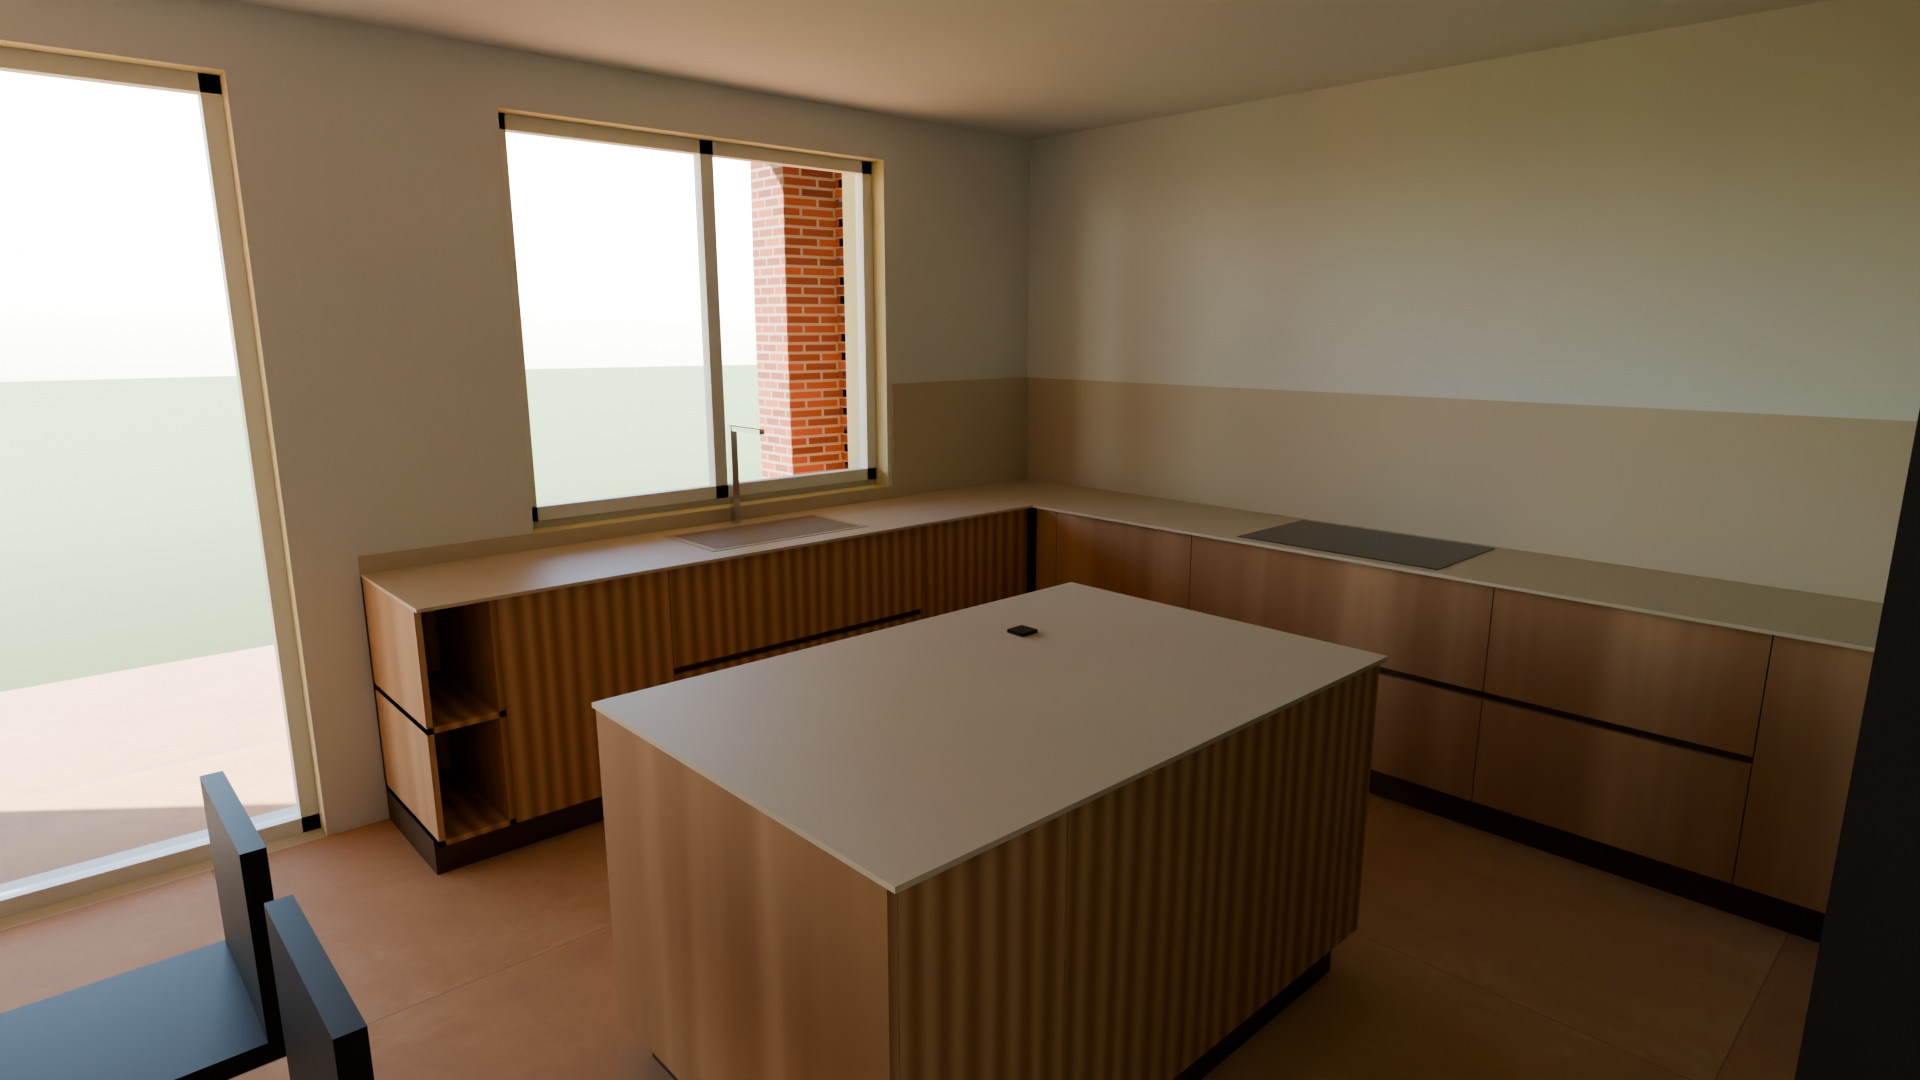
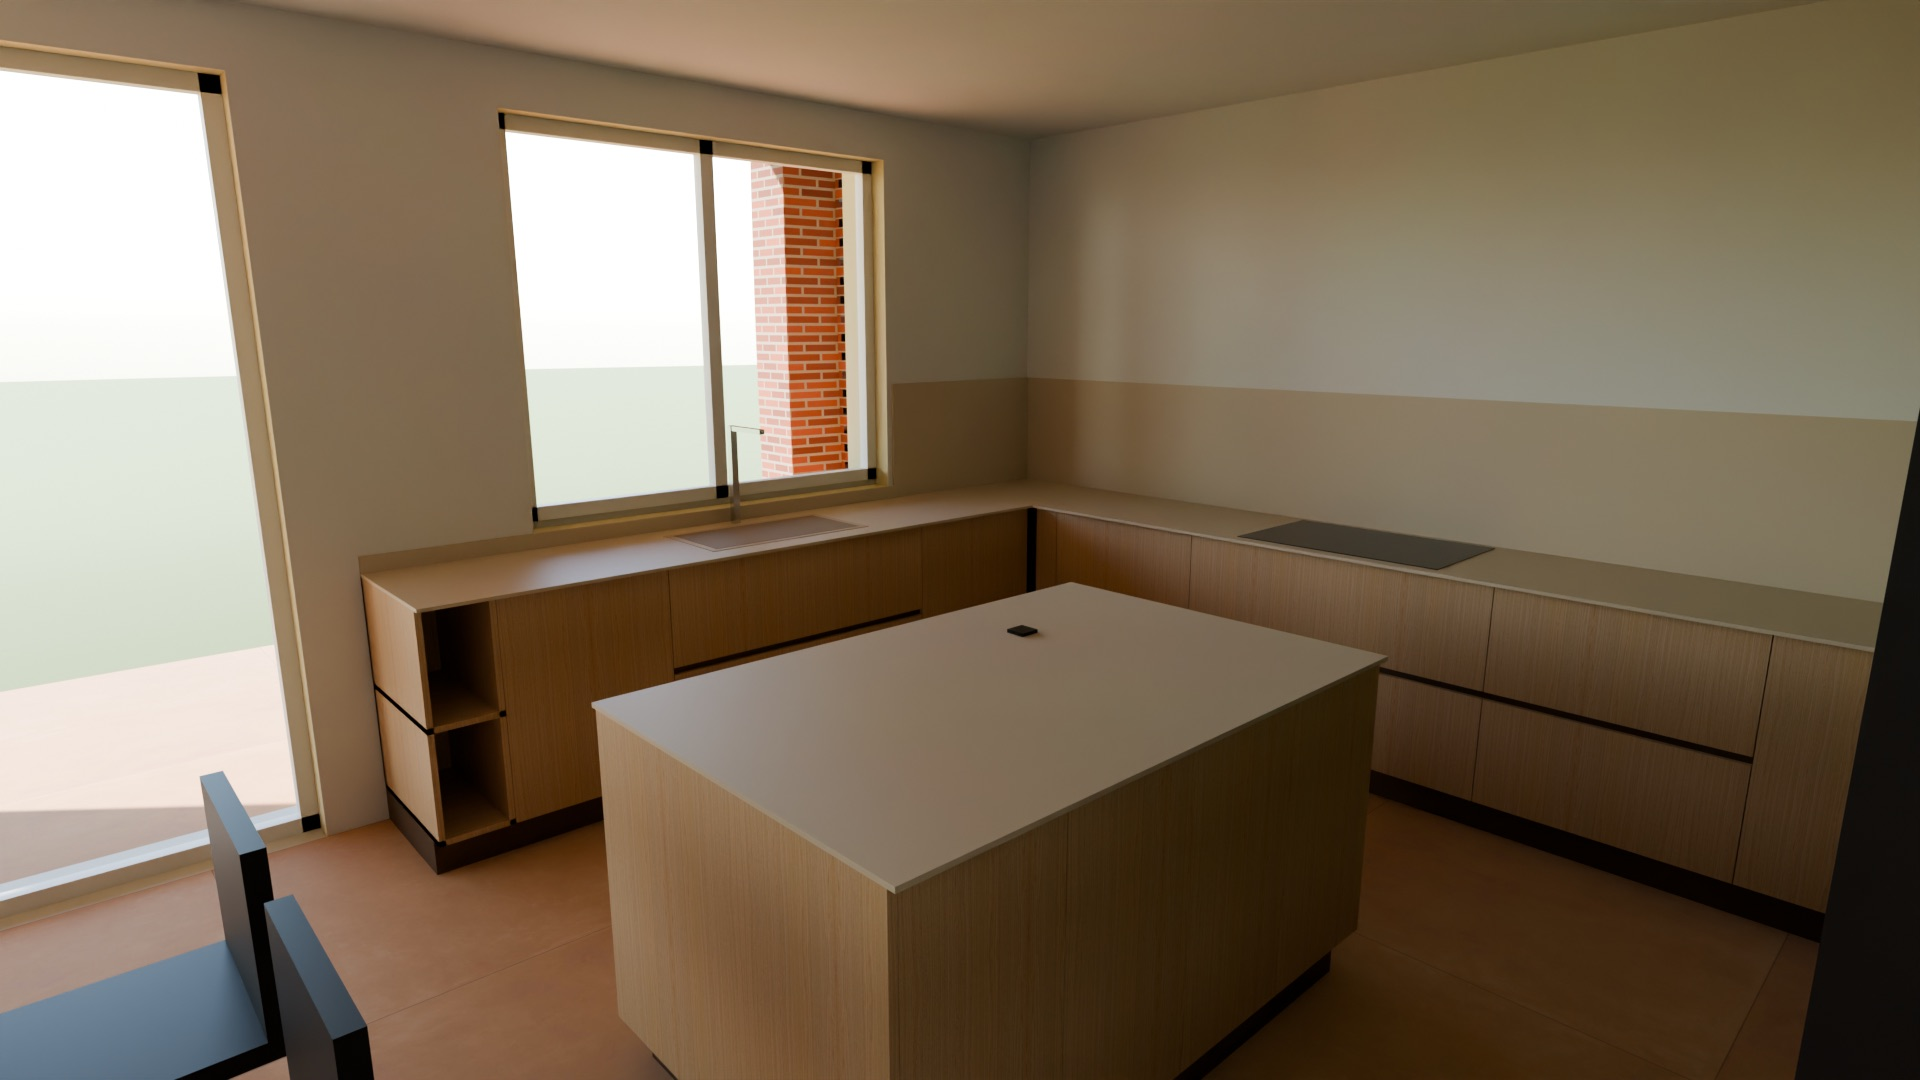
Cucina in rovere Ikebana, solo Cotto Milano creta e terracotta
- Ante della cucina con la foto del rovere Ikebana di Veneta Cucine
  (ritagliata, ripetuta a specchio, ~30 cm) nel viewer e in Blender
- Restano solo creta e terracotta: selettore del viewer, preset Blender,
  galleria e indice; rimosse le texture degli altri quattro colori
- Rifatti i render delle tre viste della cucina (2 colori × 2 scene)

Changed region(s): [[0.3125, 0.6722, 0.4688, 1.0], [0.5938, 0.4889, 0.8438, 0.6111], [0.875, 0.5806, 0.9375, 0.6417]]

diff --git a/src/viewer_3d.js b/src/viewer_3d.js
@@ -215,23 +215,14 @@ function tileTex(size, c1, c2, joint, seed, tilesPerTex) {
     }
   });
 }
-function grainTex(base, seed) {
-  // venatura continua per le ante in rovere (senza doghe): tassello 0,8 × 1,6 m, fibra verticale
-  const [r0, g0, b0] = base;
-  return canvasTex(512, 1024, [0.8, 1.6], (g, w, h) => {
-    const rnd = rand(seed);
-    g.fillStyle = `rgb(${r0},${g0},${b0})`; g.fillRect(0, 0, w, h);
-    for (let i = 0; i < 260; i++) {
-      const x = rnd() * w;
-      g.globalAlpha = 0.05 + rnd() * 0.08;
-      g.strokeStyle = rnd() > 0.45 ? '#5a3b22' : '#f4dcc0';
-      g.lineWidth = 0.6 + rnd() * 2.2;
-      g.beginPath(); g.moveTo(x, 0);
-      g.bezierCurveTo(x + (rnd() - 0.5) * 30, h * 0.33, x + (rnd() - 0.5) * 30, h * 0.66, x, h);
-      g.stroke();
-    }
-    g.globalAlpha = 1;
-  });
+// foto di un materiale del produttore, ripetuta a specchio (niente giunte) alla scala reale
+function photoTex(url, meters) {
+  const t = new THREE.TextureLoader().load(url);
+  t.wrapS = t.wrapT = THREE.MirroredRepeatWrapping;
+  t.repeat.set(1 / meters[0], 1 / meters[1]);
+  t.anisotropy = renderer.capabilities.getMaxAnisotropy();
+  t.colorSpace = THREE.SRGBColorSpace;
+  return t;
 }
 function brickTex(seed) {
   // mattone ~25 × 5,5 cm, fuga 1 cm: il tassello è 1,04 × 0,52 m (4 teste × 8 corsi)
@@ -341,7 +332,8 @@ const TEX = {
   plaster: noiseTex([1, 1], 18, 7),
   rovere: woodTex([206, 158, 104], 11),
   rovereFume: woodTex([128, 102, 80], 12),
-  anteRovere: grainTex([196, 150, 104], 17),
+  // rovere Ikebana della Sakura: campione Veneta Cucine ritagliato, circa 30 × 28 cm, fibra verticale
+  anteRovere: photoTex('./texture/cucina/rovere_ikebana.jpg', [0.30, 0.283]),
   cotto: tileTex(0.30, '#b4643e', '#9c5230', '#bdb4a6', 13, 4),
   gres: tileTex(0.60, '#a6a29b', '#9c9891', '#8f8b85', 14, 2),
   resina: noiseTex([2, 2], 26, 15),

diff --git a/src/viewer_3d.html b/src/viewer_3d.html
@@ -182,11 +182,7 @@
       <label class="row">Pavimento piano terra
         <select id="floorPT">
           <option value="terracotta">Cotto Milano Terracotta</option>
-          <option value="mattone">Cotto Milano Mattone</option>
           <option value="creta">Cotto Milano Creta</option>
-          <option value="sabbia">Cotto Milano Sabbia</option>
-          <option value="argilla">Cotto Milano Argilla</option>
-          <option value="talco">Cotto Milano Talco</option>
         </select>
       </label>
       <label class="row">Pavimento primo piano

diff --git a/index.html b/index.html
@@ -156,7 +156,7 @@
   </a>
   <a href="./src/render/render.html">
     <div class="variant-title">Render del Piano Terra</div>
-    <div class="variant-desc">Blender Cycles: Cotto Milano argilla, creta, terracotta e mattone, di giorno e di sera, con la cucina Sakura</div>
+    <div class="variant-desc">Blender Cycles: Cotto Milano creta e terracotta, di giorno e di sera, con la cucina Sakura</div>
   </a>
   <a href="./src/playground_inglesine.html">
     <div class="variant-title">Playground Inglesine</div>

diff --git a/src/render/render.html b/src/render/render.html
@@ -211,10 +211,8 @@
 </div>
 <script>
   const COLORI = {
-    argilla:    { nome: 'Argilla',    tinta: '#d3c5b6' },
     creta:      { nome: 'Creta',      tinta: '#dcc1a2' },
     terracotta: { nome: 'Terracotta', tinta: '#cfa27c' },
-    mattone:    { nome: 'Mattone',    tinta: '#c58f69' },
   };
   const SCENE = { giorno: 'Giorno · 16:00', sera: 'Sera · 20:30, luci accese' };
   const VISTE = {

diff --git a/src/blender/fienile_pt_render.py b/src/blender/fienile_pt_render.py
@@ -92,12 +92,13 @@ CAMERAS = {
 FOV_Y = 55            # apertura verticale della camera del viewer (gradi)
 
 # preset: cambia solo il colore del Cotto Milano (pavimento PT, portico, terrazzo)
-PRESETS = ("argilla", "creta", "terracotta", "mattone")
+PRESETS = ("creta", "terracotta")
 # giorno: sole all'ora scelta, luci spente; sera: luci interne accese (toggle "Luci interne" del viewer)
 SCENES = ("giorno", "sera")
 
 # Cotto Milano 120×120 ultramatt: stessi parametri di COTTO_MILANO nel viewer.
-TEX_DIR = os.path.join(os.path.dirname(os.path.abspath(__file__)), "..", "texture", "cottomilano")
+TEX_ROOT = os.path.join(os.path.dirname(os.path.abspath(__file__)), "..", "texture")
+TEX_DIR = os.path.join(TEX_ROOT, "cottomilano")
 COTTO = dict(facce=5, nx=8, nz=12, lato=1.2, seme=57, px=512)
 
 # ----------------------------------------------------------------------------
@@ -401,6 +402,17 @@ def m_cotto(colore, rough=0.85, suffix=""):
     nt.links.new(coords(nt), nz.inputs["Vector"]); bump(nt, nz.outputs["Fac"], p, 0.05, 0.002)
     return m
 
+def m_photo(name, rel, meters, rough=0.5):
+    """Foto di un materiale del produttore (src/texture/<rel>) sulle UV in metri, ripetuta a specchio."""
+    m, r = new_mat(name)
+    if not r: return m
+    nt, p = r
+    tx = node(nt, "ShaderNodeTexImage"); tx.extension = "MIRROR"
+    tx.image = bpy.data.images.load(os.path.join(TEX_ROOT, rel), check_existing=True)
+    nt.links.new(uv_coords(nt, (1 / meters[0], 1 / meters[1], 1)), tx.inputs["Vector"])
+    nt.links.new(tx.outputs["Color"], p.inputs["Base Color"]); p.inputs["Roughness"].default_value = rough
+    return m
+
 def m_emit(name, kelvin=3000, strength=18):
     m = bpy.data.materials.get(name)
     if m: return m
@@ -428,7 +440,7 @@ LIB = {
     "coppi":       lambda: m_simple("coppi", "#9f5638", 0.85),
     "tavolato":    lambda: m_wood("tavolato", "#80664f", "#5a4636", grain_dir="Y", rough=0.8),
     "prato":       lambda: m_simple("prato", "#66753f", 1.0),
-    "ante":        lambda: m_wood("ante_rovere", "#d0a47a", "#a8784e", planks=False, grain_dir="Z", rough=0.6),
+    "ante":        lambda: m_photo("ante_rovere", "cucina/rovere_ikebana.jpg", (0.30, 0.283), 0.6),  # rovere Ikebana
     "laccato":     lambda: m_simple("laccato_verde_avocado", "#8c8a62", 0.7),
     "travertino":  lambda: m_plaster("travertino", "#dccab0", rough=0.55, grain=0.01),
     "bronzo":      lambda: m_simple("bronzo", "#5f4b37", 0.45, metal=0.6),

diff --git a/CLAUDE.md b/CLAUDE.md
@@ -19,7 +19,7 @@ src/
 │   └── primo_piano.html                — Primo Piano (F2/F3=174cm)
 ├── viewer_3d.html / viewer_3d.js       — Vista 3D interattiva (three.js)
 ├── render/render.html                — Galleria render Blender (img/ da aggiorna_render.sh)
-├── texture/cottomilano/                — Cotto Milano 120×120 ultramatt: 6 colori × 5 facce (dal produttore, 512 px sRGB)
+├── texture/cottomilano/                — Cotto Milano 120×120 ultramatt: creta e terracotta × 5 facce (dal produttore, 512 px sRGB)
 ├── blender/
 │   └── fienile_pt_render.py            — Scena Blender allineata al viewer 3D + render varianti Cotto Milano
 └── archivio/
